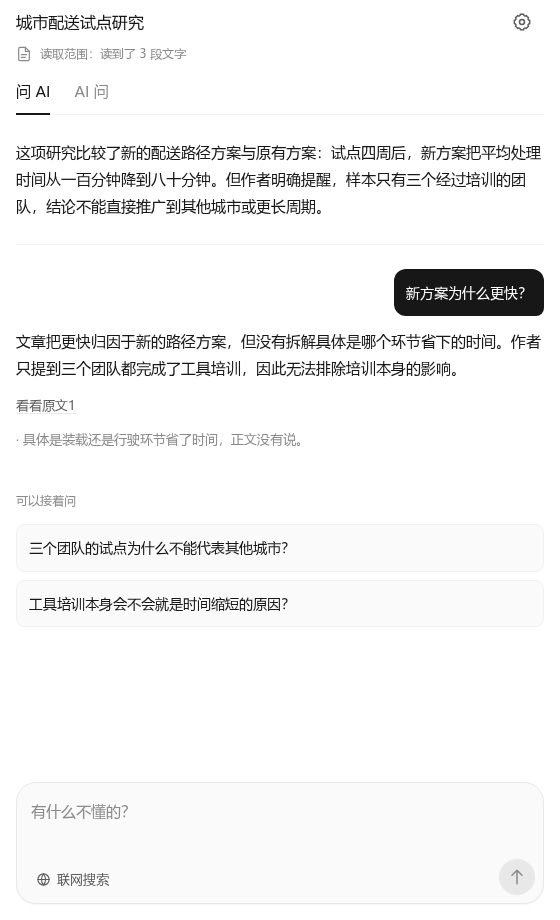
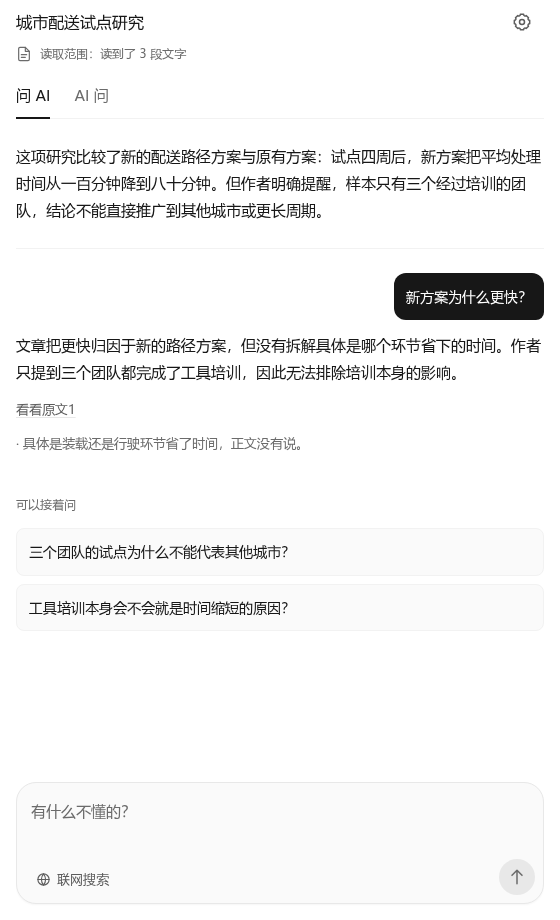
验证双模型主路径并发布普通读者交互优化 0.10.0

diff --git a/tests/e2e/conversation.spec.ts b/tests/e2e/conversation.spec.ts
@@ -1,0 +1,117 @@
+import { createServer, type Server } from 'node:http';
+import { mkdtempSync } from 'node:fs';
+import { tmpdir } from 'node:os';
+import { join, resolve } from 'node:path';
+import { chromium, expect, test, type BrowserContext, type Page } from '@playwright/test';
+
+const extensionPath = resolve('.output/chrome-mv3-e2e');
+const articleText = '<!doctype html><title>配送试点</title><article><h1>配送试点</h1><p>本研究观察三个配送团队四周，新方案的平均处理时间为八十分钟，原方案为一百分钟。</p><p>样本只有三个经过培训的团队，不能直接推广到其他城市。</p></article>';
+let context: BrowserContext; let server: Server; let origin: string; let extensionId: string;
+
+test.beforeAll(async () => {
+  server = createServer((_request, response) => { response.writeHead(200, { 'Content-Type': 'text/html; charset=utf-8' }); response.end(articleText); });
+  await new Promise<void>((done) => server.listen(0, '127.0.0.1', done));
+  origin = `http://127.0.0.1:${(server.address() as { port: number }).port}`;
+  context = await chromium.launchPersistentContext(mkdtempSync(join(tmpdir(), 'wka-chat-')), {
+    channel: 'chromium', args: [`--disable-extensions-except=${extensionPath}`, `--load-extension=${extensionPath}`],
+  });
+  const worker = context.serviceWorkers()[0] ?? await context.waitForEvent('serviceworker'); extensionId = new URL(worker.url()).host;
+  await worker.evaluate(async () => chrome.storage.local.set({ config: { apiKeys: { deepseek: 'sk-test-not-real' },
+    outbound: { version: '2026-09-19.2', acceptedAt: Date.now(), receiver: 'DeepSeek（深度求索）' } } }));
+});
+test.afterAll(async () => { await context?.close(); await new Promise<void>((done) => server.close(() => done())); });
+
+async function openPanel() {
+  const panel = await context.newPage(); await panel.setViewportSize({ width: 360, height: 450 });
+  await panel.goto(`chrome-extension://${extensionId}/sidepanel.html`);
+  const article = await context.newPage(); await article.goto(`${origin}/article.html`); await article.bringToFront();
+  const tabId = await panel.evaluate(async () => (await chrome.tabs.query({ active: true, currentWindow: true }))[0]!.id!);
+  await context.serviceWorkers()[0]!.evaluate(async ([id, url, origin]) => chrome.storage.session.set({ [`pending:${id}`]: { url, origin, at: Date.now() } }), [tabId, `${origin}/article.html`, origin] as const);
+  await panel.reload(); await panel.getByRole('button', { name: '开始阅读', exact: true }).click();
+  await expect(panel.locator('.said-guide')).toBeVisible();
+  return { panel, article, tabId };
+}
+const sse = (output: unknown) => `data: ${JSON.stringify({ choices: [{ delta: { content: JSON.stringify(output) }, finish_reason: 'stop' }] })}\n\ndata: [DONE]\n\n`;
+
+async function storedLearning(tabId: number) {
+  return context.serviceWorkers()[0]!.evaluate(async (id) => {
+    const key = `sess:${id}`; const data = await chrome.storage.session.get(key);
+    return data[key] as { learning: { current: unknown; log: { role: string; text: string }[] }; learningHistory?: unknown[] };
+  }, tabId);
+}
+
+test('真实后台保留学习历史，长选择题不挤走输入，切模式不丢草稿', async () => {
+  const longChoice = '只在三个经过培训的配送团队中观察，不能直接外推到其他城市。'.repeat(6);
+  const outputs = [
+    { summary: '试点缩短处理时间，但样本有限。', bubbles: [] },
+    { action: 'quiz', questions: [
+      { id: 'q1', text: '处理时间从多少降到多少？', choices: [{ id: 'A', label: '从一百分钟降到八十分钟' }, { id: 'B', label: '从八十分钟增加到一百分钟' }], answer: ['A'], why: '原文给出八十与一百。' },
+      { id: 'q2', text: '原文有哪些适用限制？', choices: [{ id: 'A', label: longChoice }, { id: 'B', label: '所有城市都适用。' }], answer: ['A'], why: '仅三个团队。' },
+    ] },
+    { action: 'graded', analysis: '两个要点都找对了。', notes: [], nextQuiz: null, nextQuestion: '为什么不能直接推广到其他城市？' },
+    { action: 'summary', summary: '本轮已核对数字与适用范围。', nextDirections: ['再看试点周期'] },
+    { action: 'question', question: '原文试点持续了多久？' },
+  ];
+  let calls = 0; let release = () => {}; const pause = new Promise<void>((done) => { release = done; });
+  const bodies: string[] = [];
+  await context.route('https://api.deepseek.com/chat/completions', async (route) => {
+    const index = calls++; bodies.push(route.request().postData() ?? '');
+    if (index === 1) await pause;
+    await route.fulfill({ status: 200, contentType: 'text/event-stream', body: sse(outputs[index]) });
+  });
+  const { panel, article, tabId } = await openPanel();
+  await panel.getByRole('tab', { name: 'AI 问', exact: true }).click();
+  await panel.getByLabel('自己写一个方向').fill('理解数字与适用范围');
+  await panel.getByRole('button', { name: '开始', exact: true }).click();
+  await expect(panel.getByRole('button', { name: '停止', exact: true })).toBeVisible();
+  await panel.getByRole('tab', { name: '问 AI', exact: true }).click();
+  const qa = panel.getByLabel('向这篇文章提问'); await qa.fill('准备下一次提问');
+  await expect(panel.getByRole('button', { name: '发送', exact: true })).toBeDisabled();
+  release();
+  await expect.poll(async () => (await storedLearning(tabId)).learning.current !== null).toBe(true);
+  await expect(panel.getByRole('tab', { name: '问 AI', exact: true })).toHaveAttribute('aria-selected', 'true');
+  await panel.getByRole('tab', { name: 'AI 问', exact: true }).click();
+  await expect(panel.getByRole('group', { name: '1. 处理时间从多少降到多少？', exact: true })).toHaveCount(1);
+  expect(await panel.locator('#mode-panel-learn .dock fieldset').count()).toBe(0);
+  const submit = panel.getByRole('button', { name: '提交', exact: true }); await expect(submit).toBeDisabled();
+  await panel.getByRole('radio', { name: '从一百分钟降到八十分钟', exact: true }).check();
+  await panel.getByRole('radio', { name: longChoice, exact: true }).check();
+  await expect(submit).toBeEnabled();
+  const box = await submit.boundingBox(); expect(box!.y + box!.height).toBeLessThanOrEqual(451);
+  await submit.click();
+  await expect(panel.getByText('本轮 2/2 题正确。', { exact: false })).toBeVisible();
+  await panel.getByLabel('用自己的话回答').fill('我还想补充一点');
+  await panel.getByRole('tab', { name: '问 AI', exact: true }).click(); await expect(qa).toHaveValue('准备下一次提问');
+  await panel.getByRole('tab', { name: 'AI 问', exact: true }).click(); await expect(panel.getByLabel('用自己的话回答')).toHaveValue('我还想补充一点');
+  await panel.locator('.assist-more summary').click(); await panel.getByRole('button', { name: '结束', exact: true }).click();
+  await expect(panel.getByText('本轮已核对数字与适用范围。')).toBeVisible();
+  await panel.getByRole('button', { name: '再看试点周期', exact: true }).click();
+  await expect(panel.getByText('原文试点持续了多久？', { exact: true })).toBeVisible();
+  await expect(panel.getByText('本轮已核对数字与适用范围。')).toHaveCount(1);
+  expect((await storedLearning(tabId)).learningHistory).toHaveLength(1);
+  expect(bodies[4]).not.toContain('本轮已核对数字与适用范围。');
+  await panel.close(); await article.close(); await context.unroute('https://api.deepseek.com/chat/completions');
+});
+
+test('停止第一问后继续提问，不虚构跳过记录', async () => {
+  let calls = 0;
+  let release = () => {};
+  const pause = new Promise<void>((done) => { release = done; });
+  await context.route('https://api.deepseek.com/chat/completions', async (route) => {
+    const index = calls++;
+    if (index === 1) await pause;
+    await route.fulfill({ status: 200, contentType: 'text/event-stream', body: sse(index === 0
+      ? { summary: '试点有明确数字。', bubbles: [] } : { action: 'question', question: '新方案用了多少分钟？' }) }).catch(() => {});
+  });
+  const { panel, article, tabId } = await openPanel();
+  await panel.getByRole('tab', { name: 'AI 问', exact: true }).click();
+  await panel.getByRole('button', { name: '这篇文章的核心内容', exact: true }).click();
+  const stop = panel.getByRole('button', { name: '停止', exact: true });
+  await expect(stop).toBeEnabled();
+  await stop.click();
+  release();
+  await panel.getByRole('button', { name: '继续提问', exact: true }).click();
+  await expect(panel.getByText('新方案用了多少分钟？', { exact: true })).toBeVisible();
+  expect((await storedLearning(tabId)).learning.log.some((entry) => entry.role === 'skip')).toBe(false);
+  await panel.close(); await article.close(); await context.unroute('https://api.deepseek.com/chat/completions');
+});

diff --git a/src/sidepanel/components/ModelSettings.tsx b/src/sidepanel/components/ModelSettings.tsx
@@ -1,4 +1,5 @@
 import { useEffect, useState } from 'react';
+import { browser } from 'wxt/browser';
 
 import { MODEL_PROVIDERS } from '../../core/model-providers';
 import { thinkingChoices } from '../../core/model-thinking';
@@ -17,6 +18,7 @@ export function ModelSettings({ state, send }: { state: PanelState; send: Send }
   const [loadFailed, setLoadFailed] = useState(false);
   const [customMode, setCustomMode] = useState(false);
   const [customModel, setCustomModel] = useState('');
+  const [connectionError, setConnectionError] = useState<string | null>(null);
   const provider = MODEL_PROVIDERS.find((item) => item.id === selected)!;
   const active = selected === settings.provider;
   const connected = settings.providerKeys[selected];
@@ -31,6 +33,7 @@ export function ModelSettings({ state, send }: { state: PanelState; send: Send }
     setCustomModel('');
     setModels(null);
     setLoadFailed(false);
+    setConnectionError(null);
     if (!connected || !active) return;
     let alive = true;
     void send({ type: 'listModels', provider: selected }).then((reply) => {
@@ -46,14 +49,33 @@ export function ModelSettings({ state, send }: { state: PanelState; send: Send }
     try { return await send(command); }
     finally { setBusy(false); }
   };
-  const useProvider = () => run({ type: 'saveSettings', patch: { provider: selected } });
+  const authorize = async () => {
+    if (provider.fixedHost) return true;
+    try {
+      if (await browser.permissions.request({ origins: [provider.origin] })) return true;
+    } catch { /* 保留输入，让用户按手势重试。 */ }
+    setConnectionError(`没有获得 ${provider.name} 的访问权限。输入的钥匙仍然保留，可以再点一次重试。`);
+    return false;
+  };
+  const useProvider = async () => {
+    if (disabled) return;
+    setBusy(true); setConnectionError(null);
+    try {
+      if (!await authorize()) return;
+      return await send({ type: 'saveSettings', patch: { provider: selected } });
+    } finally { setBusy(false); }
+  };
   const connect = async () => {
     if (disabled || !key.trim()) return;
-    const result = await run({ type: 'saveKey', provider: selected, key: key.trim() });
-    if (!result?.ok) return;
-    setKey('');
-    setReplacing(false);
-    if (!active) await useProvider();
+    setBusy(true); setConnectionError(null);
+    try {
+      // 必须是点击中的第一个 await，不能在后台请求后补申请权限。
+      if (!await authorize()) return;
+      const result = await send({ type: 'saveKey', provider: selected, key: key.trim() });
+      if (!result?.ok) return;
+      setKey(''); setReplacing(false);
+      if (!active) await send({ type: 'saveSettings', patch: { provider: selected } });
+    } finally { setBusy(false); }
   };
 
   const known = models ?? provider.knownModels;
@@ -111,6 +133,7 @@ export function ModelSettings({ state, send }: { state: PanelState; send: Send }
         <p className="hint model-key-help">还没有钥匙？<a href={provider.keyPage} target="_blank" rel="noreferrer">到 {provider.name} 官网创建</a></p>
         {!active && <p className="hint">只有点击「{connected ? `使用${provider.name}` : '连接并使用'}」才会切换。切换后会再次确认网页内容发给哪家。</p>}
         {state.busy && <p className="hint" role="status">正在生成回答，结束或停止后再更换服务。</p>}
+        {connectionError && <p className="hint" role="status">{connectionError}</p>}
       </section>
       {connected && active && (
         <details className="model-advanced" key={selected}>

diff --git a/tests/model-settings.test.tsx b/tests/model-settings.test.tsx
@@ -1,8 +1,10 @@
 // @vitest-environment jsdom
 import { fireEvent, render, screen, waitFor } from '@testing-library/react';
-import { describe, expect, it, vi } from 'vitest';
+import { beforeEach, describe, expect, it, vi } from 'vitest';
 
-vi.mock('wxt/browser', () => ({ browser: { runtime: { getURL: (p: string) => `chrome-extension://test${p}` } } }));
+const permission = vi.hoisted(() => vi.fn());
+vi.mock('wxt/browser', () => ({ browser: { permissions: { request: permission }, runtime: { getURL: (p: string) => `chrome-extension://test${p}` } } }));
+beforeEach(() => { permission.mockReset(); permission.mockResolvedValue(true); });
 
 import type { Command, Reply } from '../src/core/protocol';
 import { Settings } from '../src/sidepanel/components/Settings';
@@ -17,6 +19,17 @@ function openModel(over = panel(), respond?: (command: Command) => Reply) {
 }
 
 describe('模型配置与实际使用分开', () => {
+  it('智谱必须先获得访问权限，拒绝后保留 Key 且不发送连接请求', async () => {
+    permission.mockResolvedValue(false);
+    const send = openModel();
+    fireEvent.click(screen.getByRole('button', { name: /智谱.*未连接/ }));
+    const input = screen.getByLabelText('智谱 的钥匙') as HTMLInputElement;
+    fireEvent.change(input, { target: { value: 'test.key' } });
+    fireEvent.click(screen.getByRole('button', { name: '连接并使用' }));
+    await waitFor(() => expect(permission).toHaveBeenCalledWith({ origins: ['https://open.bigmodel.cn/*'] }));
+    expect(send.mock.calls.some(([c]) => c.type === 'saveKey')).toBe(false);
+    expect(input.value).toBe('test.key');
+  });
   it('点另一家只打开它的配置，不切换使用服务', async () => {
     const send = openModel();
     fireEvent.click(screen.getByRole('button', { name: /智谱.*未连接/ }));

diff --git a/tests/model-thinking.test.ts b/tests/model-thinking.test.ts
@@ -4,6 +4,10 @@ import { LIMITS } from '../src/core/limits';
 import { rememberThinking, resolveThinking, thinkingChoices, thinkingRequest } from '../src/core/model-thinking';
 
 describe('思考档位', () => {
+  it('glm-4.6 可按需恢复服务默认，但初始关闭', () => {
+    expect(resolveThinking('glm-4.6', undefined)).toBe('off');
+    expect(thinkingChoices('glm-4.6')?.map((choice) => choice.value)).toEqual(['off', 'auto']);
+  });
   it('DeepSeek 两个已知模型默认关，可选关、低、高、极致', () => {
     for (const model of ['deepseek-flash', 'deepseek-v4-pro']) {
       expect(thinkingChoices(model)?.map((choice) => choice.label)).toEqual(['关', '低', '高', '极致']);
@@ -18,7 +22,7 @@ describe('思考档位', () => {
   });
 
   it('智谱 4 系列和手填的名字没有档位', () => {
-    for (const model of ['glm-4.6', 'glm-4.7', 'glm-4.5-air', 'glm-4.5-flash', 'my-custom-model']) {
+    for (const model of ['glm-4.7', 'glm-4.5-air', 'glm-4.5-flash', 'my-custom-model']) {
       expect(thinkingChoices(model)).toBeNull();
       expect(resolveThinking(model, 'high')).toBeNull();
     }
@@ -78,8 +82,9 @@ describe('思考请求体', () => {
     expect(thinkingRequest({ providerId: 'zhipu', modelId: 'glm-5.2', stored: 'max' }).reasoningEffort).toBe('max');
   });
 
-  it('glm-4.6 不写思考字段，存过的档也不打开', () => {
+  it('glm-4.6 默认关闭思考，保证短连接测试不会只生成推理', () => {
     expect(thinkingRequest({ providerId: 'zhipu', modelId: 'glm-4.6', stored: 'max' })).toEqual({
+      thinking: { type: 'disabled' },
       maxTokens: LIMITS.maxOutputTokens,
     });
   });

diff --git a/tests/conversation.test.tsx b/tests/conversation.test.tsx
@@ -10,6 +10,18 @@ const question = { id: 'q1', text: '文章里的适用范围是什么？', multi
   choices: [{ id: 'A', label: '仅有三个团队' }, { id: 'B', label: '所有城市' }] };
 
 describe('学习也是对话流', () => {
+  it('等待首问时，禁用的回答按钮变成可用的停止按钮', () => {
+    const send = vi.fn(async () => ({ ok: true as const }));
+    const state = panel({ learning: { goal: '核心', promptVersion: '1', used: 0,
+      status: 'active', current: null, log: [] } });
+    const { rerender } = render(<Learning state={state} send={send} />);
+    expect((screen.getByRole('button', { name: '回答' }) as HTMLButtonElement).disabled).toBe(true);
+    rerender(<Learning state={{ ...state, busy: { kind: 'learn', draft: '', reasoning: '', chars: 0 } }} send={send} />);
+    const stop = screen.getByRole('button', { name: '停止' }) as HTMLButtonElement;
+    expect(stop.disabled).toBe(false);
+    fireEvent.click(stop);
+    expect(send).toHaveBeenCalledWith({ type: 'stop', tabId: 7 });
+  });
   it('停止第一问后可以直接继续提问', async () => {
     const send = vi.fn(async () => ({ ok: true as const }));
     render(<Learning state={panel({ learning: { goal: '核心', promptVersion: '1', used: 0,

diff --git a/wxt.config.ts b/wxt.config.ts
@@ -7,7 +7,7 @@ import { defineConfig } from 'wxt';
 // - optional_host_permissions 留给搜索 / IMA / 智谱，由对应设置里按需申请
 // - 唯一固定外发目标是 DeepSeek
 //
-// `--mode e2e` 只为端到端测试静态授予本地回环地址：授权弹窗是浏览器 UI，
+// `--mode e2e` 为端到端测试静态授予本地回环地址与智谱：授权弹窗是浏览器 UI，
 // 无头环境无法点击。发布构建必须用默认模式，其 host_permissions 只有 DeepSeek。
 const E2E_HOST_PERMISSION = 'http://127.0.0.1/*';
 
@@ -21,7 +21,7 @@ export default defineConfig({
     permissions: ['storage', 'sidePanel', 'scripting', 'activeTab'],
     host_permissions:
       env.mode === 'e2e'
-        ? ['https://api.deepseek.com/*', E2E_HOST_PERMISSION]
+        ? ['https://api.deepseek.com/*', 'https://open.bigmodel.cn/*', E2E_HOST_PERMISSION]
         : ['https://api.deepseek.com/*'],
     optional_host_permissions: ['https://*/*', 'http://*/*'],
     // 工具栏图标必须显式声明：默认的灰色拼图块会让试用者认不出哪个是本插件。

diff --git a/tests/e2e/flow.spec.ts b/tests/e2e/flow.spec.ts
@@ -106,7 +106,7 @@ test.describe('主路径', () => {
 
     // 关键合同：点击前不提取、不外发（FR-005）。此时要么等授权，要么等明确启动，
     // 但无论如何都不能已经出现摘要或读取范围。
-    await expect(panel.getByText(/点一个，我才读这一页/)).toBeVisible();
+    await expect(panel.getByText('点击后，我才读这一页。换页不会自动读。')).toBeVisible();
     await expect(panel.getByText('这篇文章讲了什么')).toBeHidden();
     await expect(panel.getByText(/读取范围：/)).toBeHidden();
 
@@ -118,7 +118,7 @@ test.describe('主路径', () => {
     // 因此这里对“停在授权”保持容忍，只要求不静默外发。
     if (!liveKey) {
       await expect(
-        panel.getByText(/等你在浏览器里允许读取这个网站|点一个，我才读这一页|上一步没成功/),
+        panel.getByText(/等你在浏览器里允许读取这个网站|点击后，我才读这一页|上一步没成功/),
       ).toBeVisible({ timeout: 20_000 });
       return;
     }

diff --git a/tests/settings.test.ts b/tests/settings.test.ts
@@ -67,10 +67,10 @@ describe('设置归一化（产品化改造 F2）', () => {
     expect(effective.maxBubbles).toBe(3);
   });
 
-  it('思考按模型记住：DeepSeek 缺省是关，glm-5.2 缺省是默认，glm-4.6 没有这一项', () => {
+  it('思考按模型记住：DeepSeek 缺省是关，glm-5.2 缺省是默认，glm-4.6 缺省关闭', () => {
     expect(effectiveSettings({}).thinking).toBe('off');
     expect(effectiveSettings({ provider: 'zhipu', models: { zhipu: 'glm-5.2' } }).thinking).toBe('auto');
-    expect(effectiveSettings({ provider: 'zhipu' }).thinking).toBeNull();
+    expect(effectiveSettings({ provider: 'zhipu' }).thinking).toBe('off');
     expect(
       effectiveSettings({
         provider: 'deepseek',

diff --git a/src/core/model-providers.ts b/src/core/model-providers.ts
@@ -86,8 +86,8 @@ const deepseek: ModelProvider = {
  * - 余额不足：**HTTP 429** + code 1113 —— 同样返回 429，DeepSeek 那边表示限流，
  *   只看状态码会把"去充值"说成"等一会儿"。
  *
- * 未写入 thinking 开关：智谱各版本对它的支持不一致，用默认行为，
- * 不塞一个可能 400 的字段。
+ * 2026-09-30 实测 glm-4.6 支持关闭思考；短请求默认关闭，避免推理占满预算。
+ * 其余版本按 model-thinking.ts 的已验证档位处理，不统一塞入未知字段。
  */
 const zhipu: ModelProvider = {
   id: 'zhipu',

diff --git a/src/core/model-thinking.ts b/src/core/model-thinking.ts
@@ -20,6 +20,8 @@ const LABELS: Record<ThinkingLevel, string> = {
 const KNOWN: Record<string, { levels: readonly ThinkingLevel[]; defaultLevel: ThinkingLevel }> = {
   'deepseek-flash': { levels: ['off', 'low', 'high', 'max'], defaultLevel: 'off' },
   'deepseek-v4-pro': { levels: ['off', 'low', 'high', 'max'], defaultLevel: 'off' },
+  // 2026-09-30 真实请求：默认思考会占满 16-token 连接测试，关闭后正常返回 JSON。
+  'glm-4.6': { levels: ['off', 'auto'], defaultLevel: 'off' },
   'glm-5.2': { levels: ['auto', 'off', 'high', 'max'], defaultLevel: 'auto' },
 };
 

diff --git a/README.md b/README.md
@@ -6,12 +6,12 @@
 
 ![知伴的阅读与问答界面示例](docs/images/panel-02-guide.png)
 
-你在浏览器里读一篇文章时，点工具栏里的知伴图标打开侧栏，再选择「总结摘要」「出几个问题」或「让它问我」开始；首次外发时，按钮前会加「我确认，」：
+你在浏览器里读一篇文章时，点工具栏里的知伴图标打开侧栏，再点「开始阅读」；首次外发时显示「我确认，开始阅读」：
 
 - **先给你一段短摘要**：不用自己啃完全文，先知道这篇讲了什么；
 - **给你几个可以点的话题**：点一下就是一段解释；
 - **你可以随时自己提问**：默认依据这篇文章回答，没写清楚的地方会说明；你明确要求拓展或启用联网搜索时，补充内容会单独标明来源；
-- **想检验自己看懂没有，可以让它反过来问你**：一次只问一个问题。
+- **想检验自己看懂没有，可以让它反过来问你**：用自己的话回答，或在聊天里选择答案。
 
 ![AI 问：一次一个问题的界面示例](docs/images/panel-03-learning.png)
 
@@ -116,23 +116,28 @@ chrome://extensions
 
 ![第一次打开的样子](docs/images/panel-01-setup.png)
 
-在设置 → 模型里粘上那串字符，点「保存」。这一步会向你选的供应商做一次最小连接测试，**不会发送你正在看的网页**，但可能产生少量费用。（DeepSeek 的 Key 以 `sk-` 开头，智谱的不是，页面上会写清楚。）
+在设置 → 模型里选 DeepSeek 或智谱，粘上那串字符，点「连接并使用」。这一步会向所选服务做一次最小连接测试，**不会发送你正在看的网页**，但可能产生少量费用。智谱还会请求对应网站的访问权限。（DeepSeek 的 Key 以 `sk-` 开头，智谱的不是，页面上会写清楚。）
 
-4. 回到文章侧栏，阅读外发说明：**正文会发送给你选的模型供应商；使用 DeepSeek 时还会尝试发送可读取的内容图片**，费用从你的账号扣。只在页面公开且你有权外发时，点 **「我确认，总结摘要」**；也可选「我确认，出几个问题」或「我确认，让它问我」。点按钮后才会读取与发送。
-5. 换了一页，侧栏还开着。再次点 **总结摘要**、**出几个问题** 或 **让它问我**，才会读新的一页。若工具栏的当前页临时授权已失效，侧栏按钮可能请求**读取所有 HTTP(S) 网页**的可选权限；授权后仍只在你点阅读入口时读取正文。若只想授权当前页，在这页再点一次知伴工具栏图标，然后点侧栏阅读入口。
+服务卡片会显示「使用中」「已连接」或「未连接」。点卡片只是在查看配置；连接成功或点击「使用智谱／使用DeepSeek」才切换实际服务。连接失败会保留输入，保存后的钥匙以圆点显示。具体模型和思考方式放在当前服务的「高级选项」里，默认配置即可开始。
+
+![模型服务的连接界面](docs/images/model-connection.png)
+
+4. 回到文章侧栏，阅读外发说明：**正文会发送给你选的模型供应商；使用 DeepSeek 时还会尝试发送可读取的内容图片**，费用从你的账号扣。只在页面公开且你有权外发时，点 **「我确认，开始阅读」**。点按钮后才会读取与发送。
+5. 换了一页，侧栏还开着。再次点 **开始阅读**，才会读新的一页。若工具栏的当前页临时授权已失效，侧栏按钮可能请求**读取所有 HTTP(S) 网页**的可选权限；授权后仍只在你点阅读入口时读取正文。若只想授权当前页，在这页再点一次知伴工具栏图标，然后点侧栏阅读入口。
 6. 等几秒，摘要和话题就出来了。
 
 ## 四、怎么用
 
 - **调宽窄**：把鼠标移到侧栏和网页之间的分隔线上，按住往两边拖，就能调宽调窄；你调到的宽度浏览器会自己记住，下次打开还是这个宽度。
-- **切换两件事**：侧栏顶部有两个模式——**问 AI**（摘要、话题、自己提问）和 **AI 问**（它反过来考你）。随时能切，进度和你没发出去的问题都不会因为切走而丢。
+- **切换两件事**：侧栏顶部有两个模式——**问 AI**（摘要、话题、自己提问）和 **AI 问**（它反过来考你）。两边都是对话流和底部聊天框，随时能切，进度、草稿和回看的位置都会保留。一边正在生成时，另一边仍可写草稿，等生成结束后再发送。
 - **改设置**：还没开始读或换页时，「设置」齿轮与「读这一页／换了一页」同排；伴读中它在文章标题右侧。点它会**新开一个整页的设置标签页**，分类为阅读、模型、提示词、联网搜索、知识库、清除和关于。改完回到侧栏继续阅读。
 - **想看话题**：点摘要下面那一排卡片，点一张就发出去，整排都收起。答完后，新的联想问题出现在这条回答下面，接着点、接着问。
-- **想自己问**：在最下面的输入框里写问题，点框内右下角的上箭头发送；Enter 发送，Shift + Enter 换行，输入区随文字自动增高。也可以在网页上划一段话，点「问这句」——引用会放在输入框内部上方，再写问题，回答就会针对这段原文；点引用右侧的 × 可移除它。遇到「这次生成的内容没法用」时，本轮不会写入对话；你可以继续提问。回答中的 Mermaid 图表会以彩色画出来；点图或放大镜图标会先让整张图适配侧栏，再用图标缩放、复位，或拖动查看细节。点侧栏里的全屏图标会打开一个独立的最大化弹窗；关掉弹窗会回到侧栏刚才的缩放和位置。在弹窗里还可以用全屏图标进入浏览器全屏，继续缩放、拖动和复位。在设置里关闭图表后显示源码。
+- **想自己问**：在最下面的输入框里写问题，点框内右下角的上箭头发送；Enter 发送，Shift + Enter 换行，输入区随文字自动增高。也可以在网页上划一段话，点「问这句」——引用会放在输入框内部上方，再写问题，回答就会针对这段原文；点引用右侧的 × 可移除它。遇到「这次生成的内容没法用」时，本轮不会写入对话；你可以继续提问。回看旧消息时不会被新回答拉到底部，点「回到最新消息」即可继续跟随。
+- **想看清图表**：回答中的 Mermaid 图表会以彩色画出来。点图或放大镜直接打开独立大窗口，整张图先适配画布；可滚轮缩放、拖动平移、切到 100% 看文字，或进入全屏。大图超出画布时有缩略导航，点击即可定位；「返回文章」回到原文，侧栏的草稿和阅读位置仍在。重复点同一张图会回到已开的窗口；来源文章关闭后，已载入的图仍可查看。设置里关闭图表后显示源码。
 - **想知道自己看懂没有**：切到 **AI 问**，再点一张卡片。它会围着这个点问你——可能是几道选择题，也可能是让你用自己的话回答（可以在设置里固定成其中一种）。点过的卡片不会再出现。
-  - 开放问题答不上来有四个按钮随时可用：**给我提示**、**直接讲解**、**跳过**、**结束学习**；选择题轮把选项勾好点**提交答案**，也可以**直接讲解**或**跳过这一轮**。
+  - 题目和选项直接在 AI 消息里出现，长题目也不会挤走底部输入区。开放问题答不上来可点 **我不知道**、**提示** 或 **讲解**；**跳过**和**结束**在「更多」里。选择题在消息里选答案，再点输入区右下角的箭头**提交**；已结束的题目保留为只读记录。
   - 选择题提交后它会给你逐题判定和整轮分析，并根据错在哪里组织后续问题。
-  - 它每次等你回答再继续；你可以随时结束并查看本轮小结，区分独立答出、经过提示和还没弄清楚的部分。它不会据此宣称你「已经学会了」。
+  - 它每次等你回答再继续；你可以随时结束并查看本轮小结，区分独立答出、经过提示和还没弄清楚的部分。换一个方向时，前一轮对话仍可回看。停止首个问题后可点「继续提问」。它不会据此宣称你「已经学会了」。
 - **想让回答带上网上的资料**：点输入框内左下角的「联网搜索」。未配置时会打开搜索设置，先启用一个服务；配置好后，这个按钮就是联网开关，带勾表示已打开。前三个（Firecrawl、Bing、DuckDuckGo）**不用注册、不用填 Key**，选中授权就能用；想更稳的话也可以用你自己的 SearXNG / Tavily / 博查。它只把你的**搜索词**发给搜索服务，文章正文不会发给它；用了网络资料时，回答会标明"根据网络资料"并附上链接。
   - 搜索服务和你的 AI 账号是分开的两件事——换任何模型都不影响它。
   - 三个免费服务各有脾气，一个不行就换一个：**Firecrawl** 是结构化接口、最省事；**Bing / DuckDuckGo** 是直接读对方的搜索结果页，**对方改版时可能失效**。真失效了，回答会照实说"这次只依据文章本身"，不会拿别的东西充数。
@@ -175,7 +180,7 @@ chrome://extensions
 | 提示余额不够 | 去你选的那家的官网充值，回来重试。对话记录都还在。 |
 | 提示太忙 | 等一两分钟再试。它不会背着你反复重试。 |
 | 提示这一页读不了 | 目前只支持公开发布的文章类网页。登录后才能看的、要付费的、视频页、搜索结果页都不行。 |
-| 换了页面以后还是上一页 | 上一页的结果已经放下。点「总结摘要」才读现在这一页。可在浏览器的权限提示中授权 HTTP(S) 网页，也可再点工具栏图标取得当前页临时授权后，回侧栏点阅读入口。 |
+| 换了页面以后还是上一页 | 上一页的结果已经放下。点「开始阅读」才读现在这一页。可在浏览器的权限提示中授权 HTTP(S) 网页，也可再点工具栏图标取得当前页临时授权后，回侧栏点阅读入口。 |
 | 点过"给我提示"，小结没算我自己答的 | 也是故意的：用了提示就不能算独立答出来。 |
 
 ---
